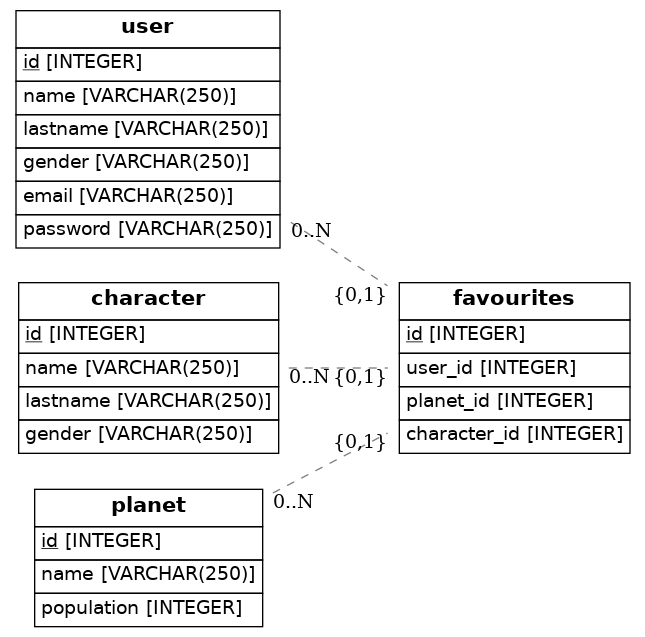
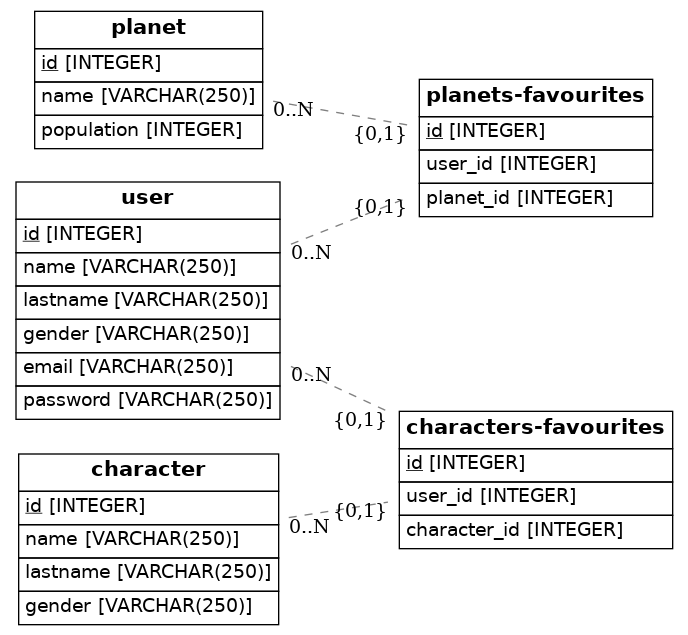
cambios en la tabla de favoritos

Changed region(s): [[0.0, 0.0, 0.9922, 0.9874], [0.4961, 0.1197, 0.9612, 0.3591], [0.4961, 0.4488, 0.6202, 0.4787]]

diff --git a/src/models.py b/src/models.py
@@ -31,10 +31,15 @@ class Planet(Base):
     population = Column(Integer, nullable=False)
 
 class Favourites(Base):
-    __tablename__ = 'favourites'
+    __tablename__ = 'planets-favourites'
     id = Column(Integer, primary_key=True)
     user_id = Column(Integer, ForeignKey('user.id'))
     planet_id = Column(Integer, ForeignKey('planet.id'))
+
+class Favourites(Base):
+    __tablename__ = 'characters-favourites'
+    id = Column(Integer, primary_key=True)
+    user_id = Column(Integer, ForeignKey('user.id'))
     character_id = Column(Integer, ForeignKey('character.id'))
 
     def to_dict(self):
